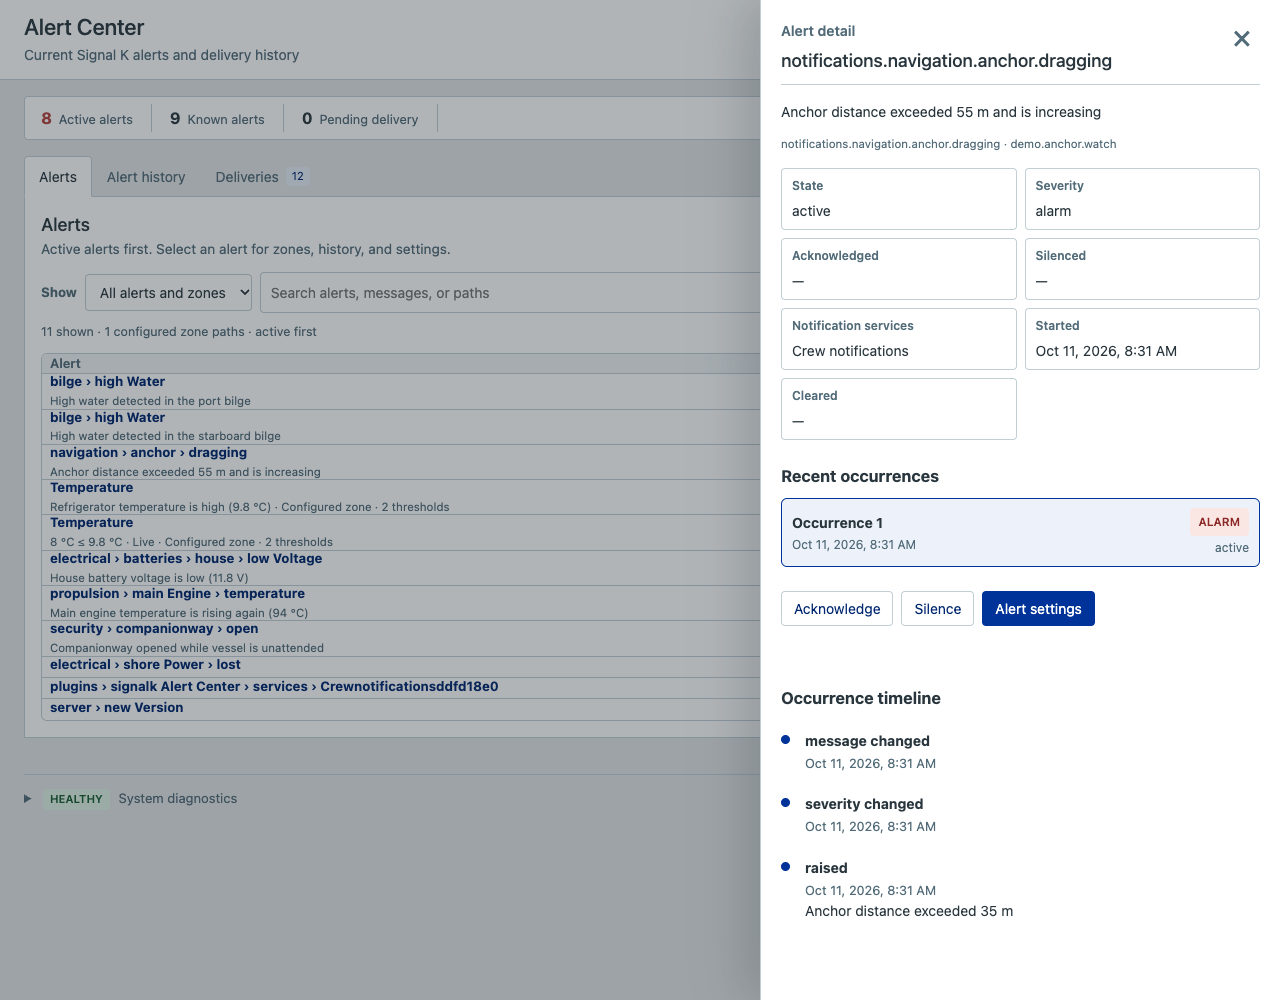
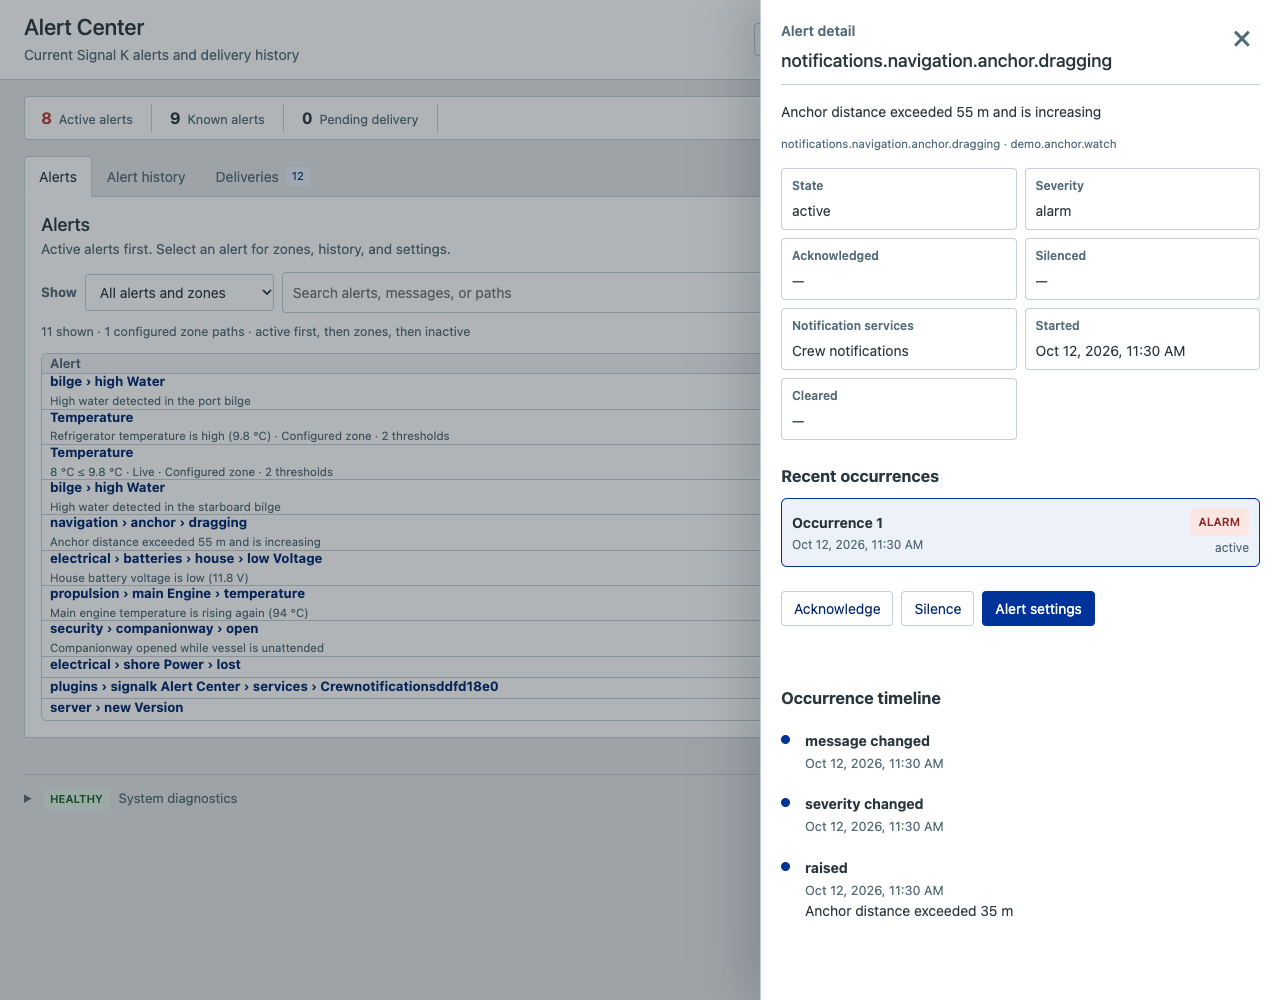
fix: show complete alert overview with zone status and filtering

diff --git a/public/app.js b/public/app.js
@@ -8,7 +8,6 @@ const state = {
   deliveries: [],
   deliveryTotal: 0,
   alertHistory: [],
-  occurrenceCursor: undefined,
   deliveryCursor: undefined,
   alertHistoryCursor: undefined,
   eventCursor: undefined,
@@ -43,7 +42,6 @@ const elements = {
   updated: $("#updated"),
   error: $("#error"),
   login: $("#login"),
-  moreOccurrences: $("#history-more"),
   drawer: $("#detail-drawer"),
   backdrop: $("#drawer-backdrop"),
   drawerTitle: $("#drawer-title"),
@@ -121,11 +119,13 @@ async function api(path, options = {}) {
 }
 async function allPages(path) {
   const items = [];
+  const [pathname, query] = path.split("?");
+  const params = new URLSearchParams(query);
+  params.set("limit", "100");
   let cursor;
   do {
-    const page = await api(
-      `${path}${path.includes("?") ? "&" : "?"}limit=100${cursor ? `&cursor=${encodeURIComponent(cursor)}` : ""}`,
-    );
+    if (cursor) params.set("cursor", cursor);
+    const page = await api(`${pathname}?${params}`);
     items.push(...pageItems(page));
     cursor = page.nextCursor;
   } while (cursor);
@@ -468,16 +468,10 @@ function bindOccurrenceActions(root = elements.drawerBody) {
 
 function renderDefinitions() {
   const showActive = $("#state-filter").value === "active";
+  const showZonesActive = $("#state-filter").value === "zones-active";
   const severity = $("#severity-filter").value;
   const search = $("#alert-search").value.trim().toLocaleLowerCase();
-  const historyFiltered = [
-    "state-filter",
-    "severity-filter",
-    "path-filter",
-    "source-filter",
-    "from-filter",
-    "to-filter",
-  ].some((id) => $(`#${id}`).value);
+  const historyFiltered = hasHistoryFilters();
   const visible = state.definitions
     .flatMap((definition) => {
       const occurrences = state.occurrences.filter(
@@ -504,7 +498,22 @@ function renderDefinitions() {
       ];
     })
     .filter((entry) => !showActive || entry.active)
-    .filter(({ latest }) => !severity || latest?.currentSeverity === severity)
+    .filter(
+      ({ definition, active }) =>
+        !showZonesActive || active || definitionZones(definition).length > 0,
+    )
+    .filter(
+      ({ definition }) =>
+        !$("#path-filter").value ||
+        definition.pathPattern === $("#path-filter").value,
+    )
+    .filter(
+      (entry) =>
+        !severity ||
+        (historyFiltered
+          ? entry.latest?.currentSeverity
+          : definitionStatus(entry)) === severity,
+    )
     .filter(({ definition, latest }) =>
       [
         definition.name,
@@ -523,12 +532,12 @@ function renderDefinitions() {
           ? severityOrder.indexOf(right.latest?.currentSeverity) -
             severityOrder.indexOf(left.latest?.currentSeverity)
           : 0) ||
-        String(left.definition.name).localeCompare(
-          String(right.definition.name),
-        ),
+        Number(definitionZones(right.definition).length > 0) -
+          Number(definitionZones(left.definition).length > 0) ||
+        alertName(left.definition).localeCompare(alertName(right.definition)),
     );
   $("#list-summary").textContent =
-    `${visible.length} shown · ${state.definitions.filter((item) => definitionZones(item).length > 0).length} configured zone paths · active first`;
+    `${visible.length} shown · ${state.definitions.filter((item) => definitionZones(item).length > 0).length} configured zone paths · active first, then zones, then inactive`;
   elements.definitions.innerHTML = visible.length
     ? `<table class="data-table alert-table">
             <thead><tr><th>Alert</th><th>Value</th><th>Age</th><th>State</th><th><span class="visually-hidden">Actions</span></th></tr></thead>
@@ -544,12 +553,14 @@ function renderDefinitions() {
             ]
               .filter(Boolean)
               .join(" · ");
-            const status = active ? latest.currentSeverity : "inactive";
+            const status = definitionStatus(definition);
             const statusTitle = active
               ? latest.currentSeverity
-              : hasHistory
-                ? "No active alert has been recorded"
-                : "No alert has been recorded for this definition";
+              : definitionZones(item).length
+                ? "Configured zone with no active alert reported by Signal K"
+                : hasHistory
+                  ? "No active alert has been recorded"
+                  : "No alert has been recorded for this definition";
             return `<tr class="clickable-row" data-definition-id="${escapeHtml(item.id)}" ${occurrence ? `data-occurrence-id="${escapeHtml(occurrence.id)}"` : ""} tabindex="0" aria-label="Open ${escapeHtml(item.name ?? item.pathPattern)}">
             <td data-label="Alert"><strong class="cell-title" title="${escapeHtml(item.pathPattern)}">${escapeHtml(alertName(item))}</strong><span class="cell-detail compact-detail alert-summary" data-live-occurrence="${active ? escapeHtml(latest.id) : ""}" title="${escapeHtml(alertSummary)}">${escapeHtml(alertSummary)}</span></td>
             <td data-label="Value" class="live-value">${escapeHtml(liveValueText(item))}</td>
@@ -577,6 +588,13 @@ function renderDefinitions() {
     });
   });
   bindOccurrenceActions(elements.definitions);
+}
+function definitionStatus({ definition, active, latest }) {
+  return active
+    ? latest.currentSeverity
+    : definitionZones(definition).length
+      ? "normal"
+      : "inactive";
 }
 
 function audioWasSkipped(item) {
@@ -717,6 +735,7 @@ function occurrenceParams(cursor) {
   if (cursor) params.set("cursor", cursor);
   for (const id of ["state", "severity", "path", "source"]) {
     const value = $(`#${id}-filter`).value.trim();
+    if (id === "state" && value === "zones-active") continue;
     if (value) params.set(id, value);
   }
   for (const id of ["from", "to"]) {
@@ -750,14 +769,12 @@ function alertHistoryParams(cursor) {
 }
 
 function hasHistoryFilters() {
-  return [
-    "state-filter",
-    "severity-filter",
-    "path-filter",
-    "source-filter",
-    "from-filter",
-    "to-filter",
-  ].some((id) => $(`#${id}`).value);
+  return (
+    $("#state-filter").value === "cleared" ||
+    ["source-filter", "from-filter", "to-filter"].some(
+      (id) => $(`#${id}`).value,
+    )
+  );
 }
 
 function renderPathOptions() {
@@ -781,17 +798,6 @@ function renderAlertHistoryDefinitionOptions() {
     select.value = selected;
 }
 
-async function loadOccurrences(append = false) {
-  const page = await api(
-    `/occurrences?${occurrenceParams(append ? state.occurrenceCursor : undefined)}`,
-  );
-  state.occurrences = append
-    ? mergeById(state.occurrences, pageItems(page))
-    : pageItems(page);
-  state.occurrenceCursor = page.nextCursor;
-  elements.moreOccurrences.hidden = !page.nextCursor;
-  renderDefinitions();
-}
 async function loadDeliveries(append = false) {
   const params = new URLSearchParams({ limit: "50" });
   if (append && state.deliveryCursor)
@@ -835,7 +841,9 @@ async function load(preserveLoadedHistory = false) {
     ] = await Promise.all([
       allPages("/definitions"),
       allPages("/occurrences?state=active"),
-      api(`/occurrences?${occurrenceParams()}`),
+      hasHistoryFilters()
+        ? allPages(`/occurrences?${occurrenceParams()}`)
+        : api("/occurrences?limit=100"),
       api("/notifiers"),
       api("/status").catch(() => ({})),
       api("/deliveries?limit=50"),
@@ -874,7 +882,6 @@ async function load(preserveLoadedHistory = false) {
       preserveLoadedHistory && previousHistoryCursor
         ? previousHistoryCursor
         : alertHistoryPage.nextCursor;
-    state.occurrenceCursor = occurrences.nextCursor;
     elements.activeCount.textContent = activeOccurrences.length;
     elements.definitionCount.textContent =
       status.alerts?.definitions ?? state.definitions.length;
@@ -892,7 +899,6 @@ async function load(preserveLoadedHistory = false) {
     renderDiagnostics(status);
     renderSnooze();
     elements.updated.textContent = `Updated ${new Date().toLocaleTimeString()}`;
-    elements.moreOccurrences.hidden = !state.occurrenceCursor;
     renderDefinitions();
     renderAlertHistory();
     renderDeliveries(state.deliveries);
@@ -1472,9 +1478,6 @@ $("#filters-clear").addEventListener("click", () => {
   $("#history-filters").reset();
   void load();
 });
-elements.moreOccurrences.addEventListener("click", () =>
-  loadOccurrences(true).catch(showError),
-);
 elements.moreDeliveries.addEventListener("click", () =>
   loadDeliveries(true).catch(showError),
 );

diff --git a/test/browser/alerts-overview.spec.ts b/test/browser/alerts-overview.spec.ts
@@ -1,0 +1,112 @@
+import { expect, test } from "@playwright/test";
+
+test("shows every definition, sorts zones above inactive alerts, and filters zones plus active alerts", async ({
+  page,
+}) => {
+  const definitions = Array.from({ length: 105 }, (_, index) => ({
+    id: `overview-${index}`,
+    name: `Inactive ${String(index).padStart(3, "0")}`,
+    pathPattern: `notifications.test.overview${index}`,
+    sourceType: "recognized",
+    metadata: {},
+  }));
+  const zone = {
+    id: "overview-zone",
+    name: "Zone without history",
+    pathPattern: "notifications.test.zone",
+    sourceType: "zone",
+    metadata: { zones: [{ lower: 0, upper: 10, state: "normal" }] },
+  };
+  const all = [...definitions, zone];
+  const active = {
+    id: "overview-active",
+    definitionId: "overview-104",
+    state: "active",
+    currentSeverity: "alarm",
+    message: "Active on the second definition page",
+  };
+  await page.route("**/plugins/signalk-alert-center/definitions?*", (route) => {
+    const second = new URL(route.request().url()).searchParams.has("cursor");
+    return route.fulfill({
+      json: {
+        items: second ? all.slice(100) : all.slice(0, 100),
+        nextCursor: second ? undefined : "second",
+      },
+    });
+  });
+  await page.route("**/plugins/signalk-alert-center/occurrences?*", (route) => {
+    const params = new URL(route.request().url()).searchParams;
+    expect(params.getAll("limit")).toHaveLength(1);
+    if (params.has("source")) {
+      return route.fulfill({
+        json: {
+          items: params.has("cursor")
+            ? [
+                {
+                  ...active,
+                  id: "older-match",
+                  definitionId: "overview-103",
+                  state: "cleared",
+                },
+              ]
+            : [],
+          nextCursor: params.has("cursor") ? undefined : "older",
+        },
+      });
+    }
+    return route.fulfill({
+      json: {
+        items: params.get("state") === "active" ? [active] : [],
+        // Older history exists, but it must not paginate the overview.
+        nextCursor: params.get("state") === "active" ? undefined : "older",
+      },
+    });
+  });
+  await page.goto("/signalk-alert-center/");
+  const rows = page.locator("#definition-list tbody tr");
+  await expect(rows).toHaveCount(106);
+  await expect(rows.nth(0)).toHaveAttribute(
+    "data-definition-id",
+    "overview-104",
+  );
+  await expect(rows.nth(1)).toHaveAttribute(
+    "data-definition-id",
+    "overview-zone",
+  );
+  await expect(rows.nth(1).locator(".alert-state-cell")).toHaveText("normal");
+  await expect(rows.nth(2).locator(".alert-state-cell")).toHaveText("inactive");
+  await expect(page.locator("#history-more")).toHaveCount(0);
+  await page.locator("#state-filter").selectOption("zones-active");
+  await expect(rows).toHaveCount(2);
+  await page.screenshot({
+    path: `test-results/alerts-overview-${test.info().project.name}.png`,
+  });
+  await page.locator("#severity-filter").selectOption("normal");
+  await expect(rows).toHaveCount(1);
+  await expect(rows.first()).toHaveAttribute(
+    "data-definition-id",
+    "overview-zone",
+  );
+  await page.locator("#severity-filter").selectOption("");
+  await page.locator("#state-filter").selectOption("active");
+  await expect(rows).toHaveCount(1);
+  await expect(rows.first()).toHaveAttribute(
+    "data-definition-id",
+    "overview-104",
+  );
+  await page.locator("#state-filter").selectOption("");
+  await page
+    .locator("#history-filters")
+    .getByText("More filters", { exact: true })
+    .click();
+  await page.locator("#source-filter").fill("older-source");
+  await page
+    .locator("#history-filters")
+    .getByRole("button", { name: "Apply", exact: true })
+    .click();
+  await expect(rows).toHaveCount(1);
+  await expect(rows.first()).toHaveAttribute(
+    "data-definition-id",
+    "overview-103",
+  );
+});

diff --git a/public/index.html b/public/index.html
@@ -106,6 +106,7 @@
           <label for="state-filter">Show</label
           ><select id="state-filter" name="state">
             <option value="" selected>All alerts and zones</option>
+            <option value="zones-active">Zones and active alerts</option>
             <option value="active">Active alerts only</option>
             <option value="cleared">Cleared history only</option>
           </select>
@@ -159,14 +160,6 @@
         <p id="list-summary" class="field-help" role="status"></p>
         <p id="action-result" class="field-help" role="status"></p>
         <div id="definition-list" class="table-shell" aria-live="polite"></div>
-        <button
-          id="history-more"
-          class="button button-quiet load-more"
-          type="button"
-          hidden
-        >
-          Load more
-        </button>
       </section>
 
       <section

diff --git a/README.md b/README.md
@@ -34,7 +34,11 @@ operational history and delivery tracking needed when alerts matter after the
 current value changes:
 
 - **See what needs attention now.** Active alerts appear first in one compact
-  list alongside inactive discovered alerts and defined zones.
+  list, followed by configured zones with no active alert (shown as Normal),
+  then inactive discovered alerts. All definitions are loaded without a
+  history-based “Load more” button. Choose **Zones and active alerts** to hide
+  inactive discovered alerts. Normal means no active alert has been reported;
+  it does not certify sensor availability or freshness.
 - **Keep the full story.** Raises, meaningful updates, clears,
   acknowledgements, silences, and delivery results remain available after a
   restart.
